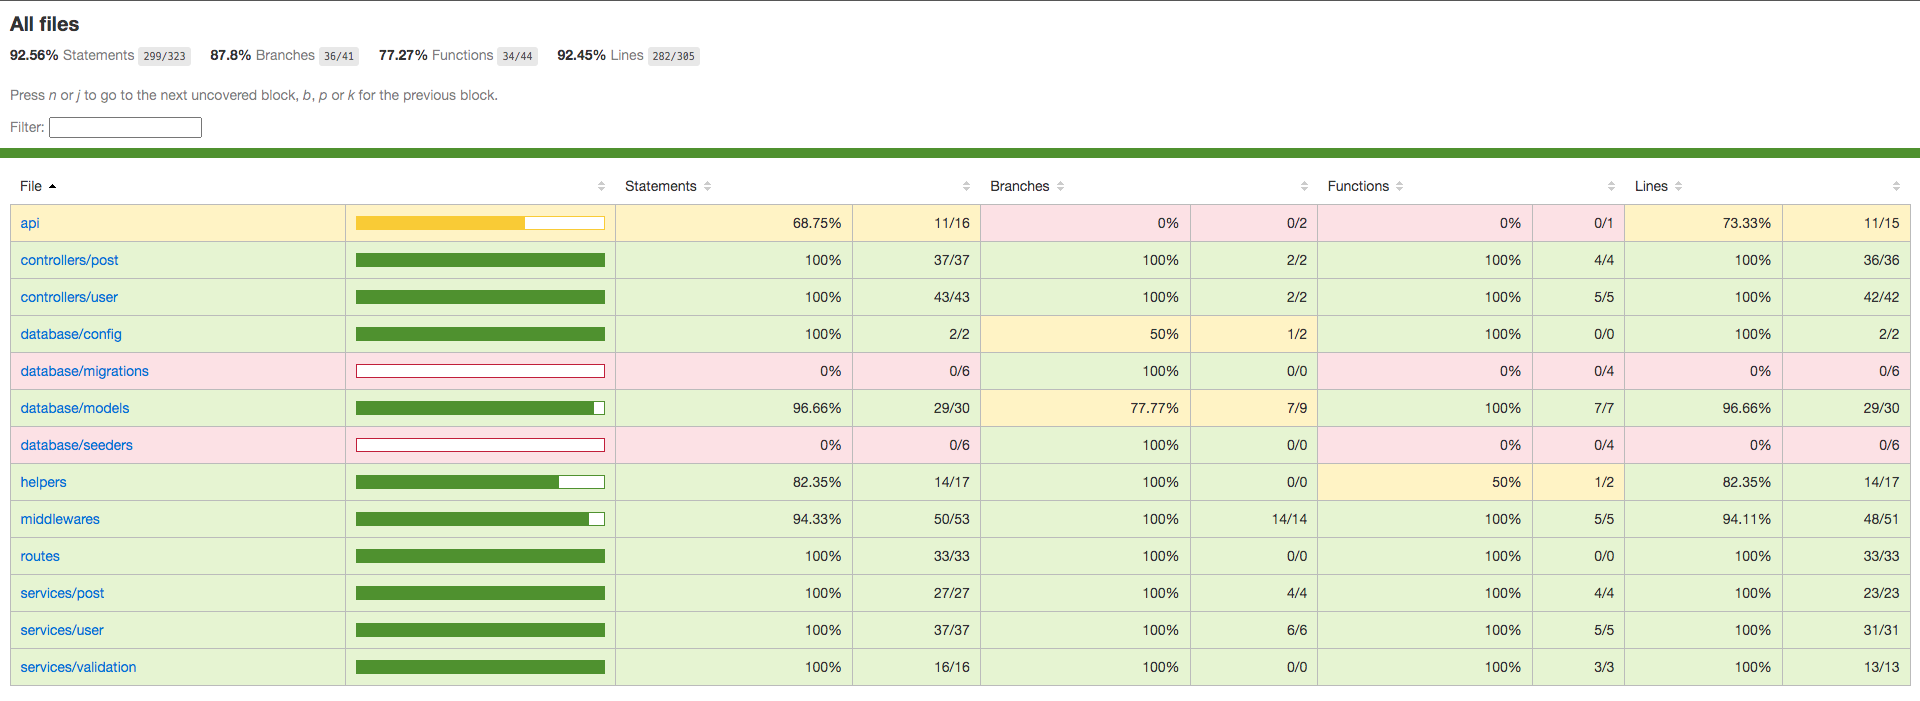
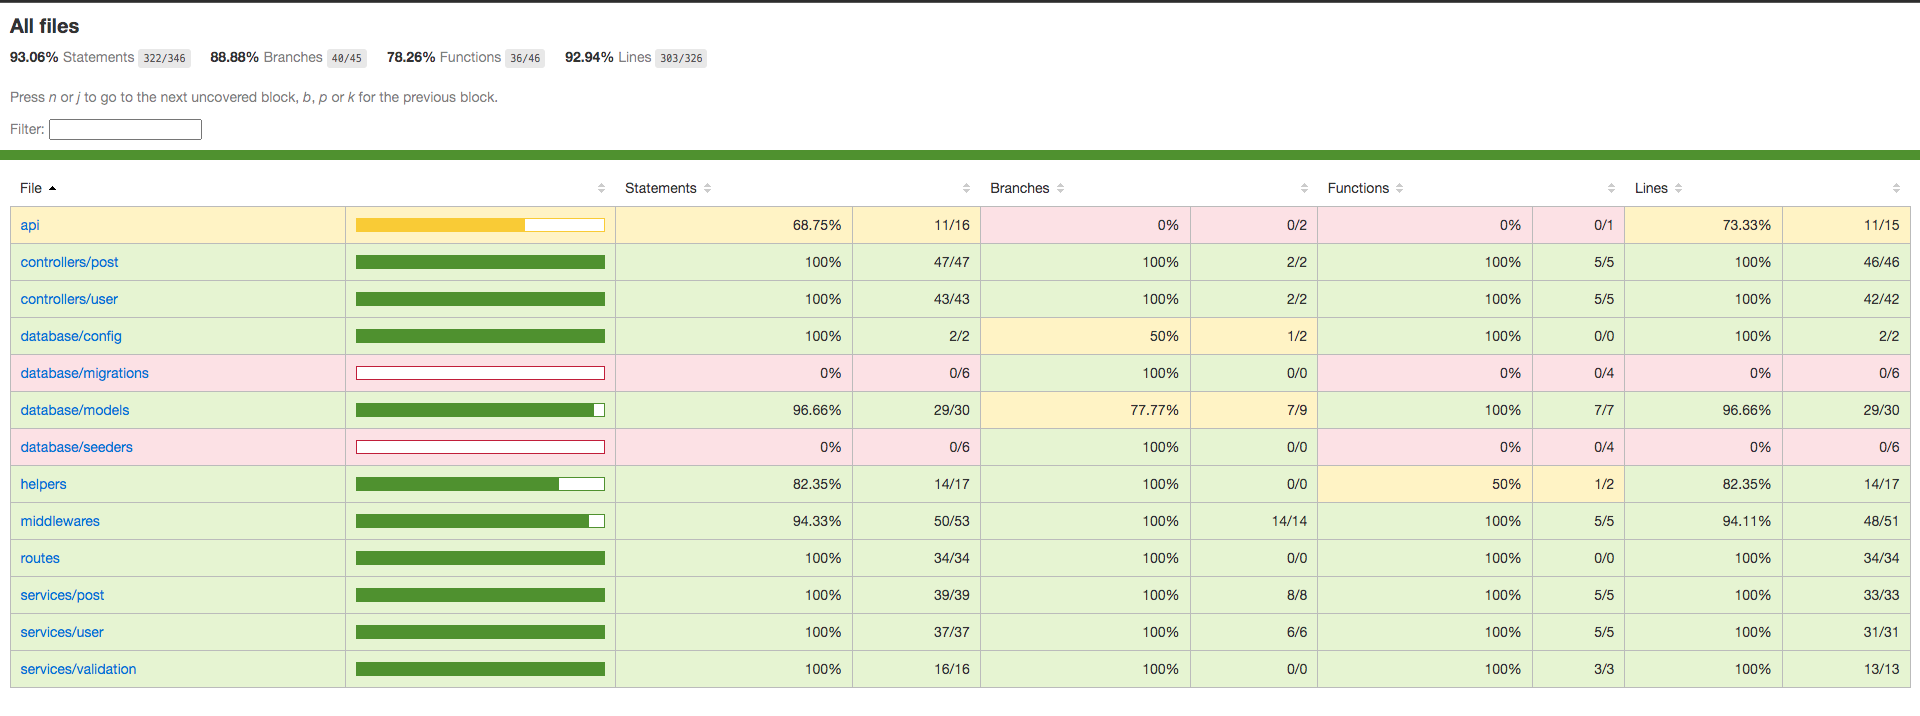
[ PR ] - Adicionando rota PUT/post/:id (#12)
* test : testes de integração da rota PUT/post/:id

* test : testes do service da rota PUT/post/:id

* feat : service da rota PUT/post/:id

* test : testes do controller da rota PUT/post/:id

* feat : controller da rota PUT/post/:id

* feat : adicionando a rota PUT/post/:id

* doc : atualizando cobertura de testes no REAMDE

Changed region(s): [[0.0, 0.1797, 1.0, 0.9886], [0.0, 0.0, 1.0, 0.0899]]

diff --git a/src/tests/02-integration/post/updatePost.test.js b/src/tests/02-integration/post/updatePost.test.js
@@ -12,18 +12,19 @@ chai.use(chaiHttp);
 
 const { expect } = chai;
 
-describe('DELETE/post/:id', () => {
+describe('PUT/post/:id', () => {
   describe('Em caso de erro interno', () => {
     let response;
     before(async () => {
       sinon.stub(jwt, 'validateToken').returns(userMock.created)
-      sinon.stub(Post, 'destroy').rejects();
+      sinon.stub(Post, 'findByPk').rejects();
       response = await chai.request(app)
-        .delete('/post/1')
+        .put('/post/1')
         .set('Authorization', userMock.token)
+        .send(postMock.toUpdate);
 
       await jwt.validateToken.restore();
-      await Post.destroy.restore();
+      await Post.findByPk.restore();
     });
 
     it('retorna o código de status 500', () => {
@@ -43,7 +44,7 @@ describe('DELETE/post/:id', () => {
     });
   });
 
-  describe('Não é possível deletar posts', () => {
+  describe('Não é possível atualizar o post', () => {
     describe('que não existem no banco de dados', () => {
       let response;
 
@@ -52,8 +53,9 @@ describe('DELETE/post/:id', () => {
         sinon.stub(jwt, 'validateToken').returns(userMock.created);
 
         response = await chai.request(app)
-          .delete('/post/999')
+          .put('/post/999')
           .set('Authorization', userMock.token)
+          .send(postMock.toUpdate);
         
         await Post.findByPk.restore();
         await jwt.validateToken.restore();
@@ -84,8 +86,9 @@ describe('DELETE/post/:id', () => {
         sinon.stub(jwt, 'validateToken').returns(userMock.created);
 
         response = await chai.request(app)
-          .delete('/post/1')
+          .put('/post/1')
           .set('Authorization', userMock.token)
+          .send(postMock.toUpdate);
         
         await Post.findByPk.restore();
         await jwt.validateToken.restore();
@@ -112,7 +115,7 @@ describe('DELETE/post/:id', () => {
       let response;
       before(async () => {
         response = await chai.request(app)
-          .delete('/post/1')
+          .put('/post/1')
       });
 
       it('retorna o código de status 401', () => {
@@ -136,7 +139,7 @@ describe('DELETE/post/:id', () => {
       let response;
       before(async () => {
         response = await chai.request(app)
-          .delete('/post/1')
+          .put('/post/1')
           .set('Authorization', 'tokenIvalido')
       });
 
@@ -158,23 +161,36 @@ describe('DELETE/post/:id', () => {
     });
   });
 
-  describe('É possível deletar posts com token válido', () => {
+  describe('É possível atualizar posts com token válido', () => {
     let response;
       before(async () => {
         sinon.stub(jwt, 'validateToken').returns(userMock.created)
         sinon.stub(Post, 'findByPk').resolves({ userId: 1 });
-        sinon.stub(Post, 'destroy').resolves(undefined);
+        sinon.stub(Post, 'update').resolves(undefined);
         response = await chai.request(app)
-        .delete('/post/1')
-        .set('Authorization', userMock.token)
+          .put('/post/1')
+          .set('Authorization', userMock.token)
+          .send(postMock.toUpdate)
 
-      await jwt.validateToken.restore();
-      await Post.findByPk.restore();
-      await Post.destroy.restore();
+        await jwt.validateToken.restore();
+        await Post.findByPk.restore();
+        await Post.update.restore();
       });
       
-      it('retorna o código de status 204', () => {
-        expect(response).to.have.status(204);
+      it('retorna o código de status 200', () => {
+        expect(response).to.have.status(200);
+      });
+
+      it('retorna um objeto', () => {
+        expect(response.body).to.be.an('object');
+      });
+
+      it('o objeto possui as propriedades "title", "content" e "userId"', () => {
+        expect(response.body).to.have.all.keys('title', 'content', 'userId');
+      });
+
+      it('o objeto é o esperado', () => {
+        expect(response.body).to.deep.equals(postMock.updated);
       });
   });
 });

diff --git a/src/tests/01-unit/post/services.test.js b/src/tests/01-unit/post/services.test.js
@@ -143,3 +143,71 @@ describe('O serviço da rota DELETE/post/:id', () => {
     });
   });
 });
+
+describe('O serviço da rota PUT/post/:id', () => {
+  describe('em caso de sucesso', () => {
+    let response;
+  
+    before(async () => {
+        sinon.stub(Post, 'findByPk').resolves({ userId: 1 });
+        sinon.stub(Post, 'update').resolves(undefined);
+  
+      response = await postService.update(1, 1, postMock.toUpdate);
+    });
+  
+    after(async () => {
+      await Post.findByPk.restore();
+      await Post.update.restore();
+    });
+  
+    it('retorna um objeto', () => {
+      expect(response).to.be.an('object');
+    });
+
+    it('o objeto possui as propriedades "title", "content" e "userId"', () => {
+      expect(response).to.have.all.keys('title', 'content', 'userId');
+    });
+
+    it('o objeto é o esperado', () => {
+      expect(response).to.deep.equals(postMock.updated);
+    });
+  });
+
+  describe('em caso de erro', () => {
+    describe('quando o post não existe no banco de dados', () => {
+      before(() => {
+        sinon.stub(Post, 'findByPk').resolves(null);
+      });
+    
+      after(async () => {
+        await Post.findByPk.restore();
+      });
+
+      it('lança o erro esperado', async () => {
+        try {
+          await postService.update(1, 1, postMock.toUpdate);
+        } catch (e) {
+          expect(e).to.deep.equals(errors.postNotFound);
+        }
+      });
+    });
+
+    describe('quando o usuário autenticado não é proprietário do post', () => {
+      before(() => {
+        sinon.stub(Post, 'findByPk').resolves({ userId: 15 });
+      });
+    
+      after(async () => {
+        await Post.findByPk.restore();
+      });
+
+      it('lança o erro esperado', async () => {
+        try {
+          await postService.update(1, 1, postMock.toUpdate);
+        } catch (e) {
+          expect(e).to.deep.equals(errors.userNotAuthorized);
+        }
+      });
+    });
+  });
+});

diff --git a/src/tests/01-unit/post/controllers.test.js b/src/tests/01-unit/post/controllers.test.js
@@ -163,3 +163,40 @@ describe('O controller da rota DELETE/post/:id', () => {
   });
 });
 
+describe('O controller da rota PUT/post/:id', () => {
+  const response = {};
+  const request = {};
+  let next;
+
+  before(() => {
+    response.status = sinon.stub().returns(response);
+    response.json = sinon.stub().returns();
+    next = sinon.stub().returns();
+  });
+
+  describe('Em caso de sucesso', () => {
+    before(() => {
+      sinon.stub(postService, 'update').resolves(postMock.updated);
+      request.params = { id: 1 };
+      request.user = { id: 1 };
+      request.body = postMock.toUpdate;
+    });
+
+    after(async () => {
+      await postService.update.restore();
+      request.params = undefined;
+      request.user = undefined;
+      request.body = undefined;
+    });
+
+    it('res.status é chamada com o código 200', async () => {
+      await postController.update(request, response, next);
+      expect(response.status.calledWith(200)).to.be.true;
+    });
+
+    it('res.end é chamado', async () => {
+      await postController.update(request, response, next);
+      expect(response.json.calledWith(postMock.updated)).to.be.true;
+    });
+  });
+});

diff --git a/src/services/post/update.js b/src/services/post/update.js
@@ -1,0 +1,23 @@
+const { Post } = require('../../database/models');
+const { errors } = require('../../helpers');
+
+module.exports = async (id, userId, { title, content }) => {
+  const found = await Post.findByPk(id);
+
+  if (!found) throw errors.postNotFound;
+
+  const { userId: userIdStored } = found;
+
+  if (userId !== userIdStored) throw errors.userNotAuthorized;
+
+  await Post.update(
+    { title, content },
+    { where: { id } },
+  );
+
+  return {
+    title,
+    content,
+    userId,
+  };
+};

diff --git a/src/tests/mocks/post.js b/src/tests/mocks/post.js
@@ -52,6 +52,17 @@ const postList = [
   },
 ];
 
+const toUpdate = {
+  "title": "Título atualizado",
+  "content": "Conteúdo atualizado",
+};
+
+const updated = {
+  "userId": 1,
+  "title": "Título atualizado",
+  "content": "Conteúdo atualizado",
+};
+
 module.exports = {
   created,
   stored,
@@ -60,4 +71,6 @@ module.exports = {
   invalidBodyInfo,
   postList,
   createReturn,
+  toUpdate,
+  updated,
 };

diff --git a/src/controllers/post/update.js b/src/controllers/post/update.js
@@ -1,0 +1,15 @@
+const postService = require('../../services/post');
+
+module.exports = async (req, res, next) => {
+  try {
+    const { id } = req.params;
+    const { id: userId } = req.user;
+    const { title, content } = req.body;
+
+    const updated = await postService.update(id, userId, { title, content });
+
+    return res.status(200).json(updated);
+  } catch (e) {
+    next(e);
+  }
+};

diff --git a/src/routes/post.js b/src/routes/post.js
@@ -9,5 +9,6 @@ router.post('/', auth, validatePost, postController.create);
 router.get('/', auth, postController.getAll);
 router.get('/:id', auth, postController.getById);
 router.delete('/:id', auth, postController.remove);
+router.put('/:id', auth, validatePost, postController.update);
 
 module.exports = router;

diff --git a/src/controllers/post/index.js b/src/controllers/post/index.js
@@ -2,10 +2,12 @@ const create = require('./create');
 const getAll = require('./getAll');
 const getById = require('./getById');
 const remove = require('./remove');
+const update = require('./update');
 
 module.exports = {
   create,
   getAll,
   getById,
   remove,
+  update,
 };

diff --git a/src/services/post/index.js b/src/services/post/index.js
@@ -2,10 +2,12 @@ const create = require('./create');
 const getAll = require('./getAll');
 const getById = require('./getById');
 const remove = require('./remove');
+const update = require('./update');
 
 module.exports = {
   create,
   getAll,
   getById,
   remove,
+  update,
 };
